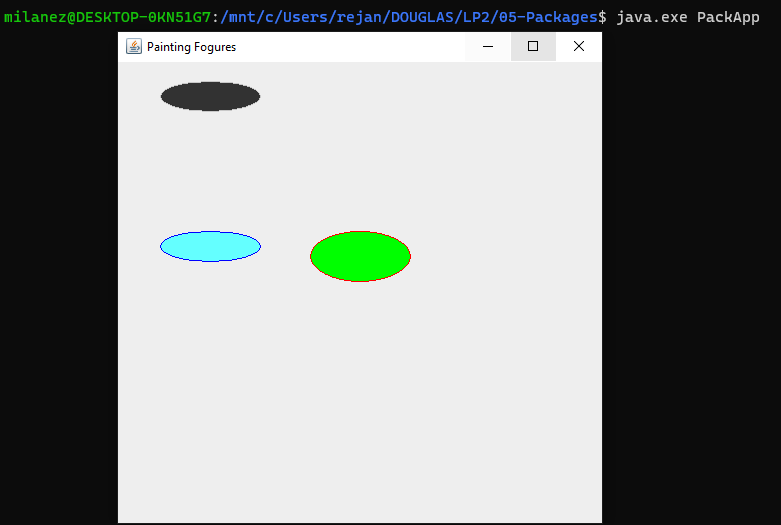
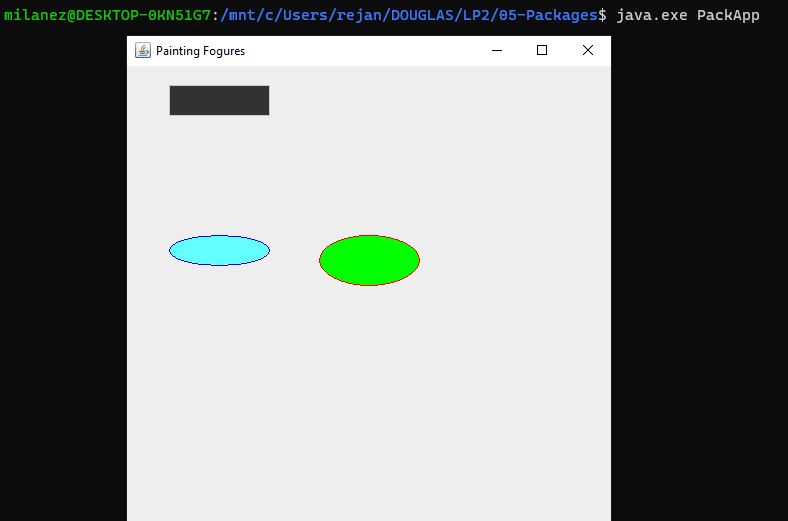
Corrigi os execícios 3.1 e 3.2

Changed region(s): [[0.0, 0.0, 0.9834, 1.0], [0.3995, 0.4299, 0.5531, 0.5528]]

diff --git a/05-Packages/PackApp.java b/05-Packages/PackApp.java
@@ -4,6 +4,7 @@ import java.awt.geom.*;
 import javax.swing.*;
 import figures.Rect;
 import figures.Ellipse;
+import figures.Oval;
 
 class PackApp{
 	public static void main(String[] args){
@@ -13,7 +14,9 @@ class PackApp{
 }
 
 class PackFrame extends JFrame{
-	Ellipse e1,e2,e3;
+	Rect r1;
+	Ellipse e1;
+	Oval o1;
 
 	PackFrame(){
 		this.setTitle("Painting Fogures");
@@ -26,15 +29,15 @@ class PackFrame extends JFrame{
 		Color FC = new Color(100,255,255);
 		Color CC = new Color(0,0,255);
 
-		this.e1 = new Ellipse(50,50,100,30,FA,CA);
-		this.e2 = new Ellipse(200,200,100,50,FB,CB);
-		this.e3 = new Ellipse(50,200,100,30,FC,CC);
+		this.r1 = new Rect(50,50,100,30,FA,CA);
+		this.e1 = new Ellipse(200,200,100,50,FB,CB);
+		this.o1 = new Oval(50,200,100,30,FC,CC);
 	}
 
 	public void paint (Graphics g) {
 		super.paint(g);
+		this.r1.paint(g);
 		this.e1.paint(g);
-		this.e2.paint(g);
-		this.e3.paint(g);
+		this.o1.paint(g);
 	}
 }

diff --git a/05-Packages/figures/Oval.java b/05-Packages/figures/Oval.java
@@ -1,12 +1,13 @@
 package figures;
 import java.awt.*;
+import java.awt.geom.*;
 
-public class Rect {
+public class Oval {
 	private int x,y;
 	private int w,h;
 	private Color fundo,contorno;
 
-	public Rect (int x, int y, int w, int h, Color fundo, Color contorno){
+	public Oval(int x, int y, int w, int h, Color fundo, Color contorno){
 		this.x = x;
 		this.y = y;
 		this.w = w;
@@ -24,15 +25,15 @@ public class Rect {
 		Graphics2D g2d = (Graphics2D) g;
 
 		g2d.setColor(this.fundo);
-		g2d.fillRect(
+		g2d.fillOval(
 				this.x,this.y,
 				this.w,this.h
-			    );
+				);
 
 		g2d.setColor(this.contorno);
-		g2d.drawRect(
+		g2d.drawOval(
 				this.x,this.y,
 				this.w,this.h
-			    );
+				);
 	}
 }

diff --git a/05-Packages/figures/Ellipse.java b/05-Packages/figures/Ellipse.java
@@ -3,9 +3,9 @@ import java.awt.*;
 import java.awt.geom.*;
 
 public class Ellipse {
-	int x,y;
-	int w,h;
-	Color fundo,contorno;
+	private int x,y;
+	private int w,h;
+	private Color fundo,contorno;
 
 	public Ellipse (int x, int y, int w, int h, Color fundo, Color contorno){
 		this.x = x;
@@ -16,7 +16,7 @@ public class Ellipse {
 		this.contorno = contorno;
 	}
 
-	public void print(){
+	private void print(){
 		System.out.format("(%d,%d) / (%d,%d)\n",
 				this.w,this.h,this.x,this.y);
 	}
